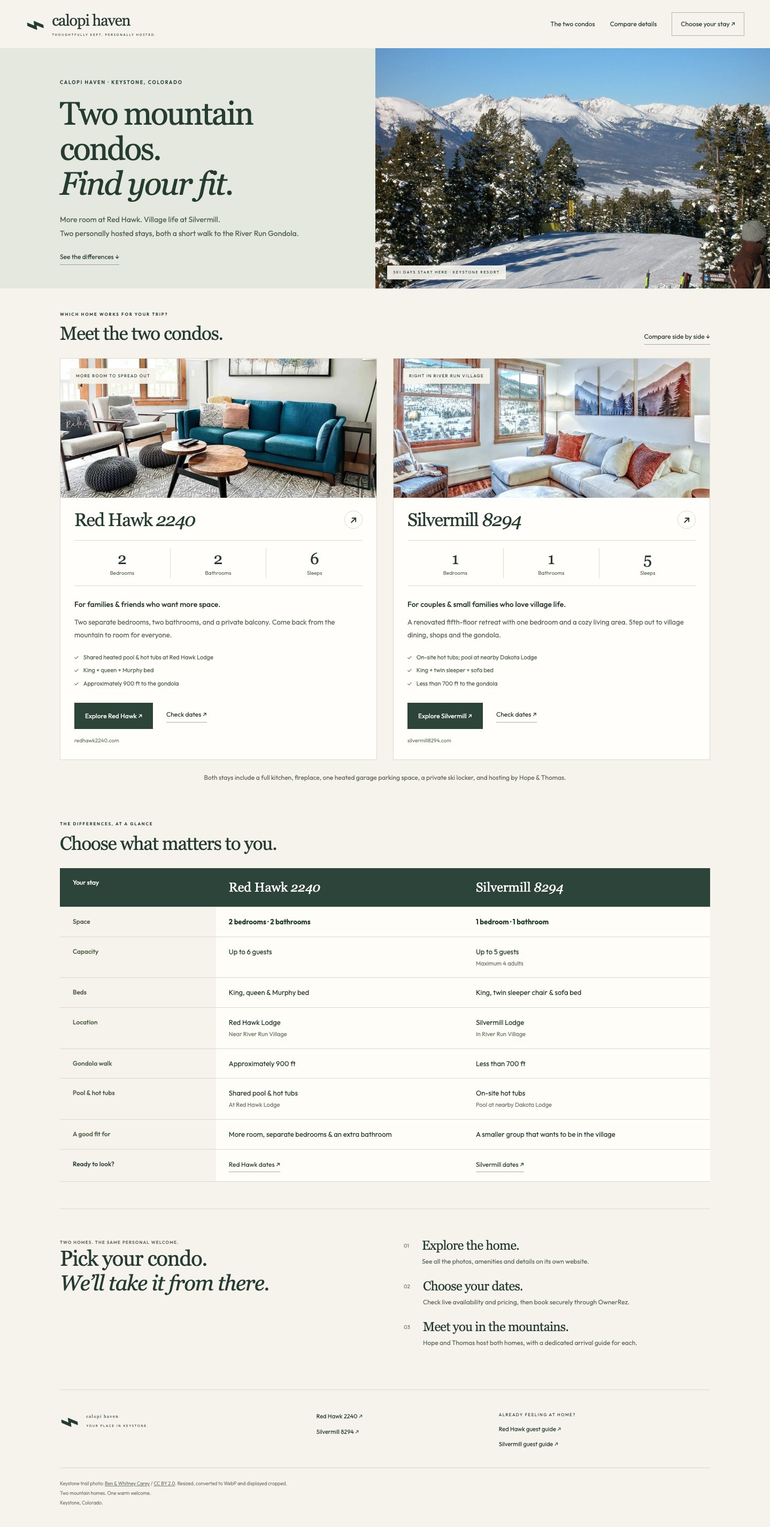
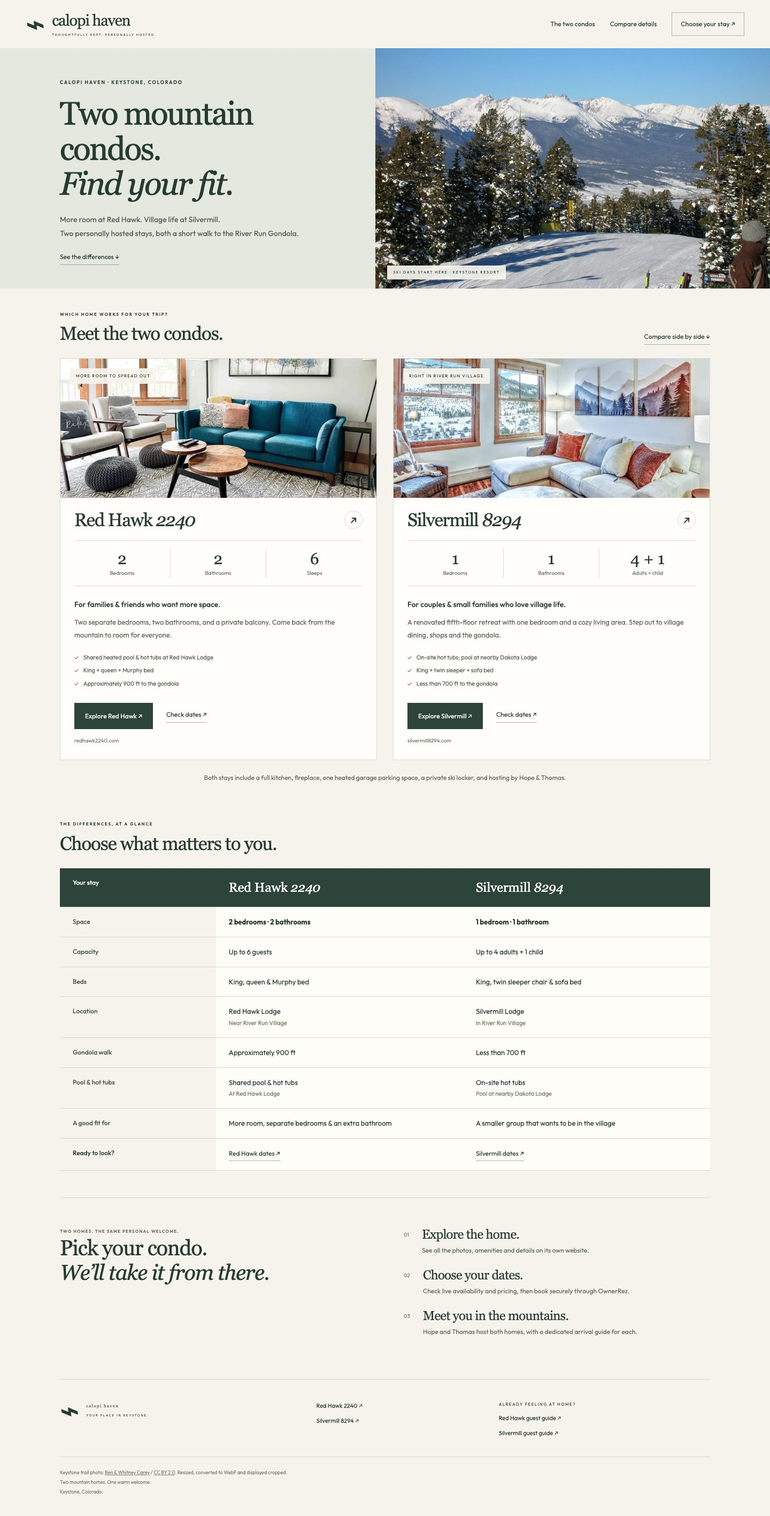
Clarify Silvermill capacity as four adults and one child

diff --git a/silvermill.html b/silvermill.html
@@ -1,3 +1,3 @@
 <!DOCTYPE html>
 
-<html lang="en"><head><meta charset="utf-8"/><meta content="width=device-width, initial-scale=1" name="viewport"/><meta content="noindex,nofollow" name="robots"/><title>Silvermill 8294 | Your River Run Village retreat</title><meta content="Stay at Silvermill 8294 in Keystone: a renovated one-bedroom condo for five in River Run Village, with hot tubs and a short walk to the gondola. Book through OwnerRez." name="description"/><link href="assets/favicon.svg" rel="icon" type="image/svg+xml"/><link href="styles.css" rel="stylesheet"/></head><body class="alpine selected-site"><a class="skip-link" href="#main">Skip to content</a><header class="site-header"><a class="brand" data-preview-path="silvermill.html" href="https://silvermill8294.com/"><svg aria-hidden="true" viewbox="0 0 64 40"><path d="M2 36 23 5l12 18 8-12 19 25M15 17l8 5 5-7M36 21l7 4 5-6" fill="none" stroke="currentColor" stroke-width="2"></path></svg><span>SILVERMILL <b>8294</b><small>KEYSTONE, COLORADO</small></span></a><nav aria-label="Main navigation"><a href="#stay">The stay</a><a href="#explore">Explore</a><a href="#gallery">Photos</a><a class="nav-book" href="#book">Plan your stay <span>↗</span></a></nav></header><main id="main"><section class="alpine-hero"><img alt="Snow-covered River Run Village and Keystone mountains at dusk" class="hero-image" fetchpriority="high" loading="eager" src="assets/silvermill/81.webp"/><div class="hero-shade"></div><div class="alpine-hero-copy wrap"><p class="eyebrow">SILVERMILL LODGE · RIVER RUN VILLAGE</p><h1>A little closer<br/>to <em>everything.</em></h1><p>Village mornings. Mountain days.<br/>Your own place in the middle of it all.</p><a class="hero-link" href="#stay">Discover your stay <span>↓</span></a></div><span class="hero-coordinate">KEYSTONE, COLORADO   /   FOUR SEASONS, ONE GOOD PLACE</span></section><section class="alpine-book wrap" id="book"><p class="eyebrow">MAKE ROOM FOR A GETAWAY</p><form action="https://app.ownerrez.com/widgets/c10114d38806484bbd3c7bfd9bf4858e" class="booking-form" data-max-guests="5" method="get"><input name="view" type="hidden" value="form"/><input name="propertyKey" type="hidden" value="3f15f3b1b0f548328ab5276d7014358a"/><label>CHECK IN<input aria-label="Check-in date" name="or_arrival" required="" type="date"/></label><label>CHECK OUT<input aria-label="Check-out date" name="or_departure" required="" type="date"/></label><label>ADULTS<select aria-label="Adults" name="or_adults"><option value="1">1 adult</option><option selected="" value="2">2 adults</option><option value="3">3 adults</option><option value="4">4 adults</option></select></label><label>CHILDREN<select aria-label="Children" name="or_children"><option value="0">0 children</option><option value="1">1 child</option><option value="2">2 children</option><option value="3">3 children</option><option value="4">4 children</option></select></label><button class="button" type="submit">Check availability <span>↗</span></button><p class="date-error" role="alert"></p></form><p class="booking-handoff">Continue to OwnerRez for availability, pricing and secure booking.</p></section><div class="facts wrap"><span><b>5</b> guests</span><span><b>1</b> bedroom</span><span><b>1</b> bathroom</span><span><b>&lt;700 ft</b> to the gondola</span></div><section class="editorial wrap" id="stay"><div><p class="eyebrow">A SMALLER STAY. A LITTLE MORE EASE.</p><h2>Village life.<br/>Mountain views.<br/><em>All yours.</em></h2><p>A renovated fifth-floor retreat for couples, small families and a few favorite friends. Slow mornings in a king bed. Coffee by the window. Evenings around the fireplace after a day on the mountain.</p><a class="underlink" href="#gallery">Step inside ↗</a></div><figure><button aria-label="Enlarge: Silvermill living room with a sectional sofa and village views" class="photo" data-caption="Silvermill living room with a sectional sofa and village views" data-photo="assets/silvermill/08.webp"><img alt="Silvermill living room with a sectional sofa and village views" loading="lazy" src="assets/silvermill/08.webp"/></button><figcaption>Room to settle in. Every reason to step outside.</figcaption></figure></section><section class="amenity-story" id="explore"><div class="amenity-photo"><img alt="Outdoor hot tubs in the Silvermill courtyard" loading="lazy" src="assets/silvermill/49.webp"/></div><div><p class="eyebrow">THE VILLAGE AT YOUR DOORSTEP</p><h2>First chair.<br/>Last soak.</h2><p>Walk through River Run Village to the gondola in under three minutes. Come home to a soak in the shared courtyard hot tubs, or find your next favorite spot for dinner just outside.</p><ul class="amenity-list"><li>On-site shared hot tubs &amp; sauna</li><li>Year-round heated pool at nearby Dakota Lodge</li><li>One heated underground parking space</li><li>Private ski locker, fitness center &amp; billiards lounge</li></ul></div></section><section class="gallery-section wrap" id="gallery"><div class="section-top"><div><p class="eyebrow">A CLOSER LOOK</p><h2>Picture yourself here.</h2></div><p>Your River Run retreat.<br/>A few very good places to unwind.</p></div><div class="gallery-grid"><button aria-label="Enlarge: Living room with fireplace and mountain-inspired artwork" class="photo" data-caption="Living room with fireplace and mountain-inspired artwork" data-photo="assets/silvermill/00.webp"><img alt="Living room with fireplace and mountain-inspired artwork" loading="lazy" src="assets/silvermill/00.webp"/></button><button aria-label="Enlarge: King bedroom with soft linens and an upholstered headboard" class="photo" data-caption="King bedroom with soft linens and an upholstered headboard" data-photo="assets/silvermill/21.webp"><img alt="King bedroom with soft linens and an upholstered headboard" loading="lazy" src="assets/silvermill/21.webp"/></button><button aria-label="Enlarge: Full kitchen with breakfast bar seating" class="photo" data-caption="Full kitchen with breakfast bar seating" data-photo="assets/silvermill/10.webp"><img alt="Full kitchen with breakfast bar seating" loading="lazy" src="assets/silvermill/10.webp"/></button><button aria-label="Enlarge: Bedroom workspace overlooking River Run Village" class="photo" data-caption="Bedroom workspace overlooking River Run Village" data-photo="assets/silvermill/25.webp"><img alt="Bedroom workspace overlooking River Run Village" loading="lazy" src="assets/silvermill/25.webp"/></button><button aria-label="Enlarge: Bathroom with shower and bathtub" class="photo" data-caption="Bathroom with shower and bathtub" data-photo="assets/silvermill/28.webp"><img alt="Bathroom with shower and bathtub" loading="lazy" src="assets/silvermill/28.webp"/></button><button aria-label="Enlarge: Shared billiards lounge at Silvermill Lodge" class="photo" data-caption="Shared billiards lounge at Silvermill Lodge" data-photo="assets/silvermill/53.webp"><img alt="Shared billiards lounge at Silvermill Lodge" loading="lazy" src="assets/silvermill/53.webp"/></button></div><p class="gallery-note">Select a photo to take a closer look.</p></section><section class="faq wrap"><div><p class="eyebrow">BEFORE YOU PACK</p><h2>A few good<br/>things to know.</h2></div><div><details><summary>How close is the gondola?</summary><p>The condo is in River Run Village, less than 700 feet from the River Run Gondola. Walk through the village to reach the lift, dining and shops.</p></details><details><summary>Where will everyone sleep?</summary><p>The one-bedroom condo sleeps up to five, with a king bed, a twin sleeper chair in the bedroom and a pull-out sofa in the living room. There is one full bathroom.</p></details><details><summary>Is parking included?</summary><p>One heated underground garage parking space and a private ski locker are included. An elevator serves the building. Additional vehicles need separate parking arrangements.</p></details><details><summary>Where are the pool and hot tubs?</summary><p>The shared hot tubs are on site at Silvermill. The year-round heated pool is accessed at nearby Dakota Lodge. All shared amenities are subject to building access and maintenance.</p></details><details><summary>What are the check-in and check-out times?</summary><p>Check-in is after 4 PM and check-out is before 10 AM. Already booked? Use the guest guide linked below for arrival instructions.</p></details><details><summary>Where can I see the rental policies?</summary><p>OwnerRez shows the applicable pricing and booking terms for your selected stay. Review the rental agreement and cancellation policy before completing your reservation.</p></details></div></section><section class="closing wrap"><p class="eyebrow">MAKE IT A MOUNTAIN KIND OF WEEKEND</p><h2>Your next deep breath<br/>starts <em>here.</em></h2><a class="button" href="#book">Plan your stay ↗</a></section></main><footer class="site-footer wrap"><a class="brand" data-preview-path="silvermill.html" href="https://silvermill8294.com/"><svg aria-hidden="true" viewbox="0 0 64 40"><path d="M2 36 23 5l12 18 8-12 19 25M15 17l8 5 5-7M36 21l7 4 5-6" fill="none" stroke="currentColor" stroke-width="2"></path></svg><span>SILVERMILL <b>8294</b><small>YOUR PLACE IN KEYSTONE</small></span></a><div><a href="https://www.airbnb.com/rooms/1237080165740047360" rel="noopener" target="_blank">View Airbnb listing ↗</a><a href="http://checkin.silvermill8294.com/" rel="noopener" target="_blank">Already booked? Guest guide ↗</a><a data-preview-path="redhawk.html" href="https://redhawk2240.com/">Our other Keystone stay: Red Hawk 2240 ↗</a><a data-preview-path="index.html" href="https://calopihaven.com/">Calopi Haven · All our stays ↗</a></div><p>Silvermill Lodge · River Run · Keystone, Colorado</p></footer><dialog class="lightbox"><button aria-label="Close photo" class="dialog-close">×</button><img alt=""/><p></p><div class="lightbox-controls"><button aria-label="Previous photo" data-direction="-1">← Previous</button><button aria-label="Next photo" data-direction="1">Next →</button></div></dialog><script src="site.js"></script></body></html>
+<html lang="en"><head><meta charset="utf-8"/><meta content="width=device-width, initial-scale=1" name="viewport"/><meta content="noindex,nofollow" name="robots"/><title>Silvermill 8294 | Your River Run Village retreat</title><meta content="Stay at Silvermill 8294 in Keystone: a renovated one-bedroom condo for up to 4 adults and 1 child in River Run Village, with hot tubs and a short walk to the gondola. Book through OwnerRez." name="description"/><link href="assets/favicon.svg" rel="icon" type="image/svg+xml"/><link href="styles.css" rel="stylesheet"/></head><body class="alpine selected-site"><a class="skip-link" href="#main">Skip to content</a><header class="site-header"><a class="brand" data-preview-path="silvermill.html" href="https://silvermill8294.com/"><svg aria-hidden="true" viewbox="0 0 64 40"><path d="M2 36 23 5l12 18 8-12 19 25M15 17l8 5 5-7M36 21l7 4 5-6" fill="none" stroke="currentColor" stroke-width="2"></path></svg><span>SILVERMILL <b>8294</b><small>KEYSTONE, COLORADO</small></span></a><nav aria-label="Main navigation"><a href="#stay">The stay</a><a href="#explore">Explore</a><a href="#gallery">Photos</a><a class="nav-book" href="#book">Plan your stay <span>↗</span></a></nav></header><main id="main"><section class="alpine-hero"><img alt="Snow-covered River Run Village and Keystone mountains at dusk" class="hero-image" fetchpriority="high" loading="eager" src="assets/silvermill/81.webp"/><div class="hero-shade"></div><div class="alpine-hero-copy wrap"><p class="eyebrow">SILVERMILL LODGE · RIVER RUN VILLAGE</p><h1>A little closer<br/>to <em>everything.</em></h1><p>Village mornings. Mountain days.<br/>Your own place in the middle of it all.</p><a class="hero-link" href="#stay">Discover your stay <span>↓</span></a></div><span class="hero-coordinate">KEYSTONE, COLORADO   /   FOUR SEASONS, ONE GOOD PLACE</span></section><section class="alpine-book wrap" id="book"><p class="eyebrow">MAKE ROOM FOR A GETAWAY</p><form action="https://app.ownerrez.com/widgets/c10114d38806484bbd3c7bfd9bf4858e" class="booking-form" data-max-adults="4" data-max-children="1" data-max-guests="5" method="get"><input name="view" type="hidden" value="form"/><input name="propertyKey" type="hidden" value="3f15f3b1b0f548328ab5276d7014358a"/><label>CHECK IN<input aria-label="Check-in date" name="or_arrival" required="" type="date"/></label><label>CHECK OUT<input aria-label="Check-out date" name="or_departure" required="" type="date"/></label><label>ADULTS<select aria-label="Adults" name="or_adults"><option value="1">1 adult</option><option selected="" value="2">2 adults</option><option value="3">3 adults</option><option value="4">4 adults</option></select></label><label>CHILDREN<select aria-label="Children" name="or_children"><option value="0">0 children</option><option value="1">1 child</option></select></label><button class="button" type="submit">Check availability <span>↗</span></button><p class="date-error" role="alert"></p></form><p class="booking-handoff">Continue to OwnerRez for availability, pricing and secure booking.</p></section><div class="facts wrap"><span><b>4 + 1</b> adults + child</span><span><b>1</b> bedroom</span><span><b>1</b> bathroom</span><span><b>&lt;700 ft</b> to the gondola</span></div><section class="editorial wrap" id="stay"><div><p class="eyebrow">A SMALLER STAY. A LITTLE MORE EASE.</p><h2>Village life.<br/>Mountain views.<br/><em>All yours.</em></h2><p>A renovated fifth-floor retreat for couples, small families and a few favorite friends. Slow mornings in a king bed. Coffee by the window. Evenings around the fireplace after a day on the mountain.</p><a class="underlink" href="#gallery">Step inside ↗</a></div><figure><button aria-label="Enlarge: Silvermill living room with a sectional sofa and village views" class="photo" data-caption="Silvermill living room with a sectional sofa and village views" data-photo="assets/silvermill/08.webp"><img alt="Silvermill living room with a sectional sofa and village views" loading="lazy" src="assets/silvermill/08.webp"/></button><figcaption>Room to settle in. Every reason to step outside.</figcaption></figure></section><section class="amenity-story" id="explore"><div class="amenity-photo"><img alt="Outdoor hot tubs in the Silvermill courtyard" loading="lazy" src="assets/silvermill/49.webp"/></div><div><p class="eyebrow">THE VILLAGE AT YOUR DOORSTEP</p><h2>First chair.<br/>Last soak.</h2><p>Walk through River Run Village to the gondola in under three minutes. Come home to a soak in the shared courtyard hot tubs, or find your next favorite spot for dinner just outside.</p><ul class="amenity-list"><li>On-site shared hot tubs &amp; sauna</li><li>Year-round heated pool at nearby Dakota Lodge</li><li>One heated underground parking space</li><li>Private ski locker, fitness center &amp; billiards lounge</li></ul></div></section><section class="gallery-section wrap" id="gallery"><div class="section-top"><div><p class="eyebrow">A CLOSER LOOK</p><h2>Picture yourself here.</h2></div><p>Your River Run retreat.<br/>A few very good places to unwind.</p></div><div class="gallery-grid"><button aria-label="Enlarge: Living room with fireplace and mountain-inspired artwork" class="photo" data-caption="Living room with fireplace and mountain-inspired artwork" data-photo="assets/silvermill/00.webp"><img alt="Living room with fireplace and mountain-inspired artwork" loading="lazy" src="assets/silvermill/00.webp"/></button><button aria-label="Enlarge: King bedroom with soft linens and an upholstered headboard" class="photo" data-caption="King bedroom with soft linens and an upholstered headboard" data-photo="assets/silvermill/21.webp"><img alt="King bedroom with soft linens and an upholstered headboard" loading="lazy" src="assets/silvermill/21.webp"/></button><button aria-label="Enlarge: Full kitchen with breakfast bar seating" class="photo" data-caption="Full kitchen with breakfast bar seating" data-photo="assets/silvermill/10.webp"><img alt="Full kitchen with breakfast bar seating" loading="lazy" src="assets/silvermill/10.webp"/></button><button aria-label="Enlarge: Bedroom workspace overlooking River Run Village" class="photo" data-caption="Bedroom workspace overlooking River Run Village" data-photo="assets/silvermill/25.webp"><img alt="Bedroom workspace overlooking River Run Village" loading="lazy" src="assets/silvermill/25.webp"/></button><button aria-label="Enlarge: Bathroom with shower and bathtub" class="photo" data-caption="Bathroom with shower and bathtub" data-photo="assets/silvermill/28.webp"><img alt="Bathroom with shower and bathtub" loading="lazy" src="assets/silvermill/28.webp"/></button><button aria-label="Enlarge: Shared billiards lounge at Silvermill Lodge" class="photo" data-caption="Shared billiards lounge at Silvermill Lodge" data-photo="assets/silvermill/53.webp"><img alt="Shared billiards lounge at Silvermill Lodge" loading="lazy" src="assets/silvermill/53.webp"/></button></div><p class="gallery-note">Select a photo to take a closer look.</p></section><section class="faq wrap"><div><p class="eyebrow">BEFORE YOU PACK</p><h2>A few good<br/>things to know.</h2></div><div><details><summary>How close is the gondola?</summary><p>The condo is in River Run Village, less than 700 feet from the River Run Gondola. Walk through the village to reach the lift, dining and shops.</p></details><details><summary>Where will everyone sleep?</summary><p>The one-bedroom condo sleeps up to 4 adults and 1 child, with a king bed, a twin sleeper chair in the bedroom and a pull-out sofa in the living room. There is one full bathroom.</p></details><details><summary>Is parking included?</summary><p>One heated underground garage parking space and a private ski locker are included. An elevator serves the building. Additional vehicles need separate parking arrangements.</p></details><details><summary>Where are the pool and hot tubs?</summary><p>The shared hot tubs are on site at Silvermill. The year-round heated pool is accessed at nearby Dakota Lodge. All shared amenities are subject to building access and maintenance.</p></details><details><summary>What are the check-in and check-out times?</summary><p>Check-in is after 4 PM and check-out is before 10 AM. Already booked? Use the guest guide linked below for arrival instructions.</p></details><details><summary>Where can I see the rental policies?</summary><p>OwnerRez shows the applicable pricing and booking terms for your selected stay. Review the rental agreement and cancellation policy before completing your reservation.</p></details></div></section><section class="closing wrap"><p class="eyebrow">MAKE IT A MOUNTAIN KIND OF WEEKEND</p><h2>Your next deep breath<br/>starts <em>here.</em></h2><a class="button" href="#book">Plan your stay ↗</a></section></main><footer class="site-footer wrap"><a class="brand" data-preview-path="silvermill.html" href="https://silvermill8294.com/"><svg aria-hidden="true" viewbox="0 0 64 40"><path d="M2 36 23 5l12 18 8-12 19 25M15 17l8 5 5-7M36 21l7 4 5-6" fill="none" stroke="currentColor" stroke-width="2"></path></svg><span>SILVERMILL <b>8294</b><small>YOUR PLACE IN KEYSTONE</small></span></a><div><a href="https://www.airbnb.com/rooms/1237080165740047360" rel="noopener" target="_blank">View Airbnb listing ↗</a><a href="http://checkin.silvermill8294.com/" rel="noopener" target="_blank">Already booked? Guest guide ↗</a><a data-preview-path="redhawk.html" href="https://redhawk2240.com/">Our other Keystone stay: Red Hawk 2240 ↗</a><a data-preview-path="index.html" href="https://calopihaven.com/">Calopi Haven · All our stays ↗</a></div><p>Silvermill Lodge · River Run · Keystone, Colorado</p></footer><dialog class="lightbox"><button aria-label="Close photo" class="dialog-close">×</button><img alt=""/><p></p><div class="lightbox-controls"><button aria-label="Previous photo" data-direction="-1">← Previous</button><button aria-label="Next photo" data-direction="1">Next →</button></div></dialog><script src="site.js"></script></body></html>

diff --git a/index.html b/index.html
@@ -1,9 +1,9 @@
-<!doctype html><html lang="en"><head><meta charset="utf-8"><meta name="viewport" content="width=device-width,initial-scale=1"><meta name="robots" content="noindex,nofollow"><title>Calopi Haven | Compare two Keystone vacation condos</title><meta name="description" content="Choose between Red Hawk 2240, a two-bedroom condo for six, and Silvermill 8294, a one-bedroom condo for five in Keystone’s River Run Village. Compare and book directly."><link rel="icon" href="assets/favicon.svg"><link rel="stylesheet" href="styles.css"><link rel="stylesheet" href="calopi.css"></head><body class="alpine haven"><a class="skip-link" href="#main">Skip to content</a><header class="haven-header"><a aria-label="Calopi Haven home" class="haven-brand" data-preview-path="index.html" href="https://calopihaven.com/"><span aria-hidden="true" class="haven-symbol">⌁</span><span>calopi haven<small>THOUGHTFULLY KEPT. PERSONALLY HOSTED.</small></span></a><nav aria-label="Main navigation"><a href="#stays">The two condos</a><a href="#compare">Compare details</a><a class="haven-outline" href="#stays">Choose your stay ↗</a></nav></header><main id="main"><section class="choice-hero"><div class="choice-hero-copy"><p class="eyebrow">CALOPI HAVEN · KEYSTONE, COLORADO</p><h1>Two mountain condos.<br><em>Find your fit.</em></h1><p>More room at Red Hawk. Village life at Silvermill.<br>Two personally hosted stays, both a short walk to the River Run Gondola.</p><a class="haven-text-link" href="#compare">See the differences ↓</a></div><figure><img src="assets/keystone-schoolmarm.webp" alt="A skier beside the Schoolmarm trail at Keystone Resort, overlooking the snowy Tenmile Range" width="2048" height="1532" fetchpriority="high"><figcaption>SKI DAYS START HERE · KEYSTONE RESORT</figcaption></figure></section>
-<div class="quick-choices haven-wrap" aria-label="Choose between our two properties"><a href="#redhawk"><span>RED HAWK 2240</span><strong>2 bedrooms · 2 baths · sleeps 6</strong><small>More space for families &amp; friends ↓</small></a><a href="#silvermill"><span>SILVERMILL 8294</span><strong>1 bedroom · 1 bath · sleeps 5</strong><small>A cozy base in River Run Village ↓</small></a></div>
-<section id="stays" class="haven-stays haven-wrap"><div class="haven-section-top"><div><p class="eyebrow">WHICH HOME WORKS FOR YOUR TRIP?</p><h2>Meet the two condos.</h2></div><a class="haven-text-link" href="#compare">Compare side by side ↓</a></div><div class="haven-properties"><article id="redhawk" class="haven-property"><a class="haven-property-photo" href="https://redhawk2240.com/" data-preview-path="redhawk.html"><img src="assets/photo-01.webp" alt="Red Hawk living room with teal sofa and separate dining area" width="1440" height="1080"><span>MORE ROOM TO SPREAD OUT</span></a><div class="property-content"><div class="haven-property-heading"><h3>Red Hawk <em>2240</em></h3><a href="https://redhawk2240.com/" data-preview-path="redhawk.html" aria-label="Explore Red Hawk 2240">↗</a></div><dl class="property-numbers"><div><dt>Bedrooms</dt><dd>2</dd></div><div><dt>Bathrooms</dt><dd>2</dd></div><div><dt>Sleeps</dt><dd>6</dd></div></dl><p class="best-for">For families &amp; friends who want more space.</p><p class="property-intro">Two separate bedrooms, two bathrooms, and a private balcony. Come back from the mountain to room for everyone.</p><ul><li>Shared heated pool &amp; hot tubs at Red Hawk Lodge</li><li>King + queen + Murphy bed</li><li>Approximately 900 ft to the gondola</li></ul><div class="haven-property-actions"><a class="haven-dark-button" href="https://redhawk2240.com/" data-preview-path="redhawk.html">Explore Red Hawk ↗</a><a class="haven-text-link" href="https://redhawk2240.com/#book" data-preview-path="redhawk.html#book">Check dates ↗</a></div><a class="haven-domain" href="https://redhawk2240.com/" data-preview-path="redhawk.html">redhawk2240.com</a></div></article><article id="silvermill" class="haven-property"><a class="haven-property-photo" href="https://silvermill8294.com/" data-preview-path="silvermill.html"><img src="assets/silvermill/08.webp" alt="Silvermill living room with bright windows overlooking River Run Village" width="1440" height="1080"><span>RIGHT IN RIVER RUN VILLAGE</span></a><div class="property-content"><div class="haven-property-heading"><h3>Silvermill <em>8294</em></h3><a href="https://silvermill8294.com/" data-preview-path="silvermill.html" aria-label="Explore Silvermill 8294">↗</a></div><dl class="property-numbers"><div><dt>Bedrooms</dt><dd>1</dd></div><div><dt>Bathrooms</dt><dd>1</dd></div><div><dt>Sleeps</dt><dd>5</dd></div></dl><p class="best-for">For couples &amp; small families who love village life.</p><p class="property-intro">A renovated fifth-floor retreat with one bedroom and a cozy living area. Step out to village dining, shops and the gondola.</p><ul><li>On-site hot tubs; pool at nearby Dakota Lodge</li><li>King + twin sleeper + sofa bed</li><li>Less than 700 ft to the gondola</li></ul><div class="haven-property-actions"><a class="haven-dark-button" href="https://silvermill8294.com/" data-preview-path="silvermill.html">Explore Silvermill ↗</a><a class="haven-text-link" href="https://silvermill8294.com/#book" data-preview-path="silvermill.html#book">Check dates ↗</a></div><a class="haven-domain" href="https://silvermill8294.com/" data-preview-path="silvermill.html">silvermill8294.com</a></div></article></div><p class="haven-booking-note">Both stays include a full kitchen, fireplace, one heated garage parking space, a private ski locker, and hosting by Hope &amp; Thomas.</p></section>
+<!doctype html><html lang="en"><head><meta charset="utf-8"><meta name="viewport" content="width=device-width,initial-scale=1"><meta name="robots" content="noindex,nofollow"><title>Calopi Haven | Compare two Keystone vacation condos</title><meta name="description" content="Choose between Red Hawk 2240, a two-bedroom condo for six, and Silvermill 8294, a one-bedroom condo for up to 4 adults and 1 child in Keystone’s River Run Village. Compare and book directly."><link rel="icon" href="assets/favicon.svg"><link rel="stylesheet" href="styles.css"><link rel="stylesheet" href="calopi.css"></head><body class="alpine haven"><a class="skip-link" href="#main">Skip to content</a><header class="haven-header"><a aria-label="Calopi Haven home" class="haven-brand" data-preview-path="index.html" href="https://calopihaven.com/"><span aria-hidden="true" class="haven-symbol">⌁</span><span>calopi haven<small>THOUGHTFULLY KEPT. PERSONALLY HOSTED.</small></span></a><nav aria-label="Main navigation"><a href="#stays">The two condos</a><a href="#compare">Compare details</a><a class="haven-outline" href="#stays">Choose your stay ↗</a></nav></header><main id="main"><section class="choice-hero"><div class="choice-hero-copy"><p class="eyebrow">CALOPI HAVEN · KEYSTONE, COLORADO</p><h1>Two mountain condos.<br><em>Find your fit.</em></h1><p>More room at Red Hawk. Village life at Silvermill.<br>Two personally hosted stays, both a short walk to the River Run Gondola.</p><a class="haven-text-link" href="#compare">See the differences ↓</a></div><figure><img src="assets/keystone-schoolmarm.webp" alt="A skier beside the Schoolmarm trail at Keystone Resort, overlooking the snowy Tenmile Range" width="2048" height="1532" fetchpriority="high"><figcaption>SKI DAYS START HERE · KEYSTONE RESORT</figcaption></figure></section>
+<div class="quick-choices haven-wrap" aria-label="Choose between our two properties"><a href="#redhawk"><span>RED HAWK 2240</span><strong>2 bedrooms · 2 baths · sleeps 6</strong><small>More space for families &amp; friends ↓</small></a><a href="#silvermill"><span>SILVERMILL 8294</span><strong>1 bedroom · 1 bath · 4 adults + 1 child</strong><small>A cozy base in River Run Village ↓</small></a></div>
+<section id="stays" class="haven-stays haven-wrap"><div class="haven-section-top"><div><p class="eyebrow">WHICH HOME WORKS FOR YOUR TRIP?</p><h2>Meet the two condos.</h2></div><a class="haven-text-link" href="#compare">Compare side by side ↓</a></div><div class="haven-properties"><article id="redhawk" class="haven-property"><a class="haven-property-photo" href="https://redhawk2240.com/" data-preview-path="redhawk.html"><img src="assets/photo-01.webp" alt="Red Hawk living room with teal sofa and separate dining area" width="1440" height="1080"><span>MORE ROOM TO SPREAD OUT</span></a><div class="property-content"><div class="haven-property-heading"><h3>Red Hawk <em>2240</em></h3><a href="https://redhawk2240.com/" data-preview-path="redhawk.html" aria-label="Explore Red Hawk 2240">↗</a></div><dl class="property-numbers"><div><dt>Bedrooms</dt><dd>2</dd></div><div><dt>Bathrooms</dt><dd>2</dd></div><div><dt>Sleeps</dt><dd>6</dd></div></dl><p class="best-for">For families &amp; friends who want more space.</p><p class="property-intro">Two separate bedrooms, two bathrooms, and a private balcony. Come back from the mountain to room for everyone.</p><ul><li>Shared heated pool &amp; hot tubs at Red Hawk Lodge</li><li>King + queen + Murphy bed</li><li>Approximately 900 ft to the gondola</li></ul><div class="haven-property-actions"><a class="haven-dark-button" href="https://redhawk2240.com/" data-preview-path="redhawk.html">Explore Red Hawk ↗</a><a class="haven-text-link" href="https://redhawk2240.com/#book" data-preview-path="redhawk.html#book">Check dates ↗</a></div><a class="haven-domain" href="https://redhawk2240.com/" data-preview-path="redhawk.html">redhawk2240.com</a></div></article><article id="silvermill" class="haven-property"><a class="haven-property-photo" href="https://silvermill8294.com/" data-preview-path="silvermill.html"><img src="assets/silvermill/08.webp" alt="Silvermill living room with bright windows overlooking River Run Village" width="1440" height="1080"><span>RIGHT IN RIVER RUN VILLAGE</span></a><div class="property-content"><div class="haven-property-heading"><h3>Silvermill <em>8294</em></h3><a href="https://silvermill8294.com/" data-preview-path="silvermill.html" aria-label="Explore Silvermill 8294">↗</a></div><dl class="property-numbers"><div><dt>Bedrooms</dt><dd>1</dd></div><div><dt>Bathrooms</dt><dd>1</dd></div><div><dt>Adults + child</dt><dd>4 + 1</dd></div></dl><p class="best-for">For couples &amp; small families who love village life.</p><p class="property-intro">A renovated fifth-floor retreat with one bedroom and a cozy living area. Step out to village dining, shops and the gondola.</p><ul><li>On-site hot tubs; pool at nearby Dakota Lodge</li><li>King + twin sleeper + sofa bed</li><li>Less than 700 ft to the gondola</li></ul><div class="haven-property-actions"><a class="haven-dark-button" href="https://silvermill8294.com/" data-preview-path="silvermill.html">Explore Silvermill ↗</a><a class="haven-text-link" href="https://silvermill8294.com/#book" data-preview-path="silvermill.html#book">Check dates ↗</a></div><a class="haven-domain" href="https://silvermill8294.com/" data-preview-path="silvermill.html">silvermill8294.com</a></div></article></div><p class="haven-booking-note">Both stays include a full kitchen, fireplace, one heated garage parking space, a private ski locker, and hosting by Hope &amp; Thomas.</p></section>
 <section class="comparison-section haven-wrap" id="compare"><div class="haven-section-top"><div><p class="eyebrow">THE DIFFERENCES, AT A GLANCE</p><h2>Choose what matters to you.</h2></div></div><div class="comparison-table-wrap"><table class="stay-comparison"><caption>Compare Red Hawk 2240 and Silvermill 8294</caption><thead><tr><th scope="col">Your stay</th><th scope="col">Red Hawk <span>2240</span></th><th scope="col">Silvermill <span>8294</span></th></tr></thead><tbody>
 <tr><th scope="row">Space</th><td><strong>2 bedrooms · 2 bathrooms</strong></td><td><strong>1 bedroom · 1 bathroom</strong></td></tr>
-<tr><th scope="row">Capacity</th><td>Up to 6 guests</td><td>Up to 5 guests<br><small>Maximum 4 adults</small></td></tr>
+<tr><th scope="row">Capacity</th><td>Up to 6 guests</td><td>Up to 4 adults + 1 child</td></tr>
 <tr><th scope="row">Beds</th><td>King, queen &amp; Murphy bed</td><td>King, twin sleeper chair &amp; sofa bed</td></tr>
 <tr><th scope="row">Location</th><td>Red Hawk Lodge<br><small>Near River Run Village</small></td><td>Silvermill Lodge<br><small>In River Run Village</small></td></tr>
 <tr><th scope="row">Gondola walk</th><td>Approximately 900 ft</td><td>Less than 700 ft</td></tr>

diff --git a/site.js b/site.js
@@ -11,7 +11,7 @@
     arrival.addEventListener('change',()=>{departure.min=nextDay(arrival.value||arrival.min);if(departure.value&&departure.value<departure.min)departure.value='';error.textContent=''});
     form.addEventListener('submit',event=>{
       error.textContent='';
-      if(form.dataset.maxGuests && Number(form.elements.or_adults.value)+Number(form.elements.or_children.value)>Number(form.dataset.maxGuests)){event.preventDefault();error.textContent='Silvermill accommodates up to five guests in total.';return;}
+      if(form.dataset.maxGuests && (Number(form.elements.or_adults.value)>Number(form.dataset.maxAdults)||Number(form.elements.or_children.value)>Number(form.dataset.maxChildren)||Number(form.elements.or_adults.value)+Number(form.elements.or_children.value)>Number(form.dataset.maxGuests))){event.preventDefault();error.textContent='Silvermill accommodates up to 4 adults and 1 child.';return;}
       if(!arrival.value||!departure.value||arrival.value<arrival.min||departure.value<=arrival.value){event.preventDefault();error.textContent='Choose a future check-in date and a later check-out date.';}
     });
   });

diff --git a/scripts/build_property_sites.py b/scripts/build_property_sites.py
@@ -26,22 +26,22 @@ s=selected()
 # Replace property names, public links and OwnerRez identifiers before setting property-specific content.
 s=BeautifulSoup(str(s).replace('RED HAWK','SILVERMILL').replace('Red Hawk','Silvermill').replace('2240','8294').replace('45842208','1237080165740047360').replace('checkin.redhawk8294.com','checkin.silvermill8294.com').replace('https://checkin.silvermill8294.com','http://checkin.silvermill8294.com/').replace('f13cd4d5594545a4b410a094355b8b4d','c10114d38806484bbd3c7bfd9bf4858e').replace('bc7244c04d284b70baab4dede8d52fb0','3f15f3b1b0f548328ab5276d7014358a'),'html.parser')
 s.title.string='Silvermill 8294 | Your River Run Village retreat'
-s.select_one('meta[name=description]')['content']='Stay at Silvermill 8294 in Keystone: a renovated one-bedroom condo for five in River Run Village, with hot tubs and a short walk to the gondola. Book through OwnerRez.'
+s.select_one('meta[name=description]')['content']='Stay at Silvermill 8294 in Keystone: a renovated one-bedroom condo for up to 4 adults and 1 child in River Run Village, with hot tubs and a short walk to the gondola. Book through OwnerRez.'
 for a in s.select('.brand'):a['href']='silvermill.html'
-form=s.select_one('.booking-form');form['data-max-guests']='5'
+form=s.select_one('.booking-form');form['data-max-guests']='5';form['data-max-adults']='4';form['data-max-children']='1'
 guest_label=s.select_one('select[name=or_guests]').parent
-guest_label.replace_with(BeautifulSoup('<label>ADULTS<select name="or_adults" aria-label="Adults">'+''.join(f'<option value="{i}" {"selected" if i==2 else ""}>{i} adult{"s" if i>1 else ""}</option>' for i in range(1,5))+'</select></label><label>CHILDREN<select name="or_children" aria-label="Children">'+''.join(f'<option value="{i}">{i} child{"ren" if i!=1 else ""}</option>' for i in range(5))+'</select></label>','html.parser'))
+guest_label.replace_with(BeautifulSoup('<label>ADULTS<select name="or_adults" aria-label="Adults">'+''.join(f'<option value="{i}" {"selected" if i==2 else ""}>{i} adult{"s" if i>1 else ""}</option>' for i in range(1,5))+'</select></label><label>CHILDREN<select name="or_children" aria-label="Children">'+''.join(f'<option value="{i}">{i} child{"ren" if i!=1 else ""}</option>' for i in range(2))+'</select></label>','html.parser'))
 replace(s,'.hero-image',image(81,'Snow-covered River Run Village and Keystone mountains at dusk',True))
 s.select_one('.alpine-hero .eyebrow').string='SILVERMILL LODGE · RIVER RUN VILLAGE'
 s.select_one('h1').clear();s.select_one('h1').append(BeautifulSoup('A little closer<br/>to <em>everything.</em>','html.parser'))
 s.select_one('.alpine-hero-copy > p:not(.eyebrow)').clear();s.select_one('.alpine-hero-copy > p:not(.eyebrow)').append(BeautifulSoup('Village mornings. Mountain days.<br/>Your own place in the middle of it all.','html.parser'))
-replace(s,'.facts','<div class="facts wrap"><span><b>5</b> guests</span><span><b>1</b> bedroom</span><span><b>1</b> bathroom</span><span><b>&lt;700 ft</b> to the gondola</span></div>')
+replace(s,'.facts','<div class="facts wrap"><span><b>4 + 1</b> adults + child</span><span><b>1</b> bedroom</span><span><b>1</b> bathroom</span><span><b>&lt;700 ft</b> to the gondola</span></div>')
 replace(s,'.editorial',f'''<section class="editorial wrap" id="stay"><div><p class="eyebrow">A SMALLER STAY. A LITTLE MORE EASE.</p><h2>Village life.<br>Mountain views.<br><em>All yours.</em></h2><p>A renovated fifth-floor retreat for couples, small families and a few favorite friends. Slow mornings in a king bed. Coffee by the window. Evenings around the fireplace after a day on the mountain.</p><a class="underlink" href="#gallery">Step inside ↗</a></div><figure>{photo(8,'Silvermill living room with a sectional sofa and village views')}<figcaption>Room to settle in. Every reason to step outside.</figcaption></figure></section>''')
 replace(s,'.amenity-story',f'''<section class="amenity-story" id="explore"><div class="amenity-photo">{image(49,'Outdoor hot tubs in the Silvermill courtyard')}</div><div><p class="eyebrow">THE VILLAGE AT YOUR DOORSTEP</p><h2>First chair.<br>Last soak.</h2><p>Walk through River Run Village to the gondola in under three minutes. Come home to a soak in the shared courtyard hot tubs, or find your next favorite spot for dinner just outside.</p><ul class="amenity-list"><li>On-site shared hot tubs &amp; sauna</li><li>Year-round heated pool at nearby Dakota Lodge</li><li>One heated underground parking space</li><li>Private ski locker, fitness center &amp; billiards lounge</li></ul></div></section>''')
 items=[(0,'Living room with fireplace and mountain-inspired artwork'),(21,'King bedroom with soft linens and an upholstered headboard'),(10,'Full kitchen with breakfast bar seating'),(25,'Bedroom workspace overlooking River Run Village'),(28,'Bathroom with shower and bathtub'),(53,'Shared billiards lounge at Silvermill Lodge')]
 replace(s,'.gallery-grid','<div class="gallery-grid">'+''.join(photo(n,a) for n,a in items)+'</div>')
 s.select_one('.gallery-section .section-top > p').clear();s.select_one('.gallery-section .section-top > p').append(BeautifulSoup('Your River Run retreat.<br/>A few very good places to unwind.','html.parser'))
-faqs=[('How close is the gondola?','The condo is in River Run Village, less than 700 feet from the River Run Gondola. Walk through the village to reach the lift, dining and shops.'),('Where will everyone sleep?','The one-bedroom condo sleeps up to five, with a king bed, a twin sleeper chair in the bedroom and a pull-out sofa in the living room. There is one full bathroom.'),('Is parking included?','One heated underground garage parking space and a private ski locker are included. An elevator serves the building. Additional vehicles need separate parking arrangements.'),('Where are the pool and hot tubs?','The shared hot tubs are on site at Silvermill. The year-round heated pool is accessed at nearby Dakota Lodge. All shared amenities are subject to building access and maintenance.'),('What are the check-in and check-out times?','Check-in is after 4 PM and check-out is before 10 AM. Already booked? Use the guest guide linked below for arrival instructions.'),('Where can I see the rental policies?','OwnerRez shows the applicable pricing and booking terms for your selected stay. Review the rental agreement and cancellation policy before completing your reservation.')]
+faqs=[('How close is the gondola?','The condo is in River Run Village, less than 700 feet from the River Run Gondola. Walk through the village to reach the lift, dining and shops.'),('Where will everyone sleep?','The one-bedroom condo sleeps up to 4 adults and 1 child, with a king bed, a twin sleeper chair in the bedroom and a pull-out sofa in the living room. There is one full bathroom.'),('Is parking included?','One heated underground garage parking space and a private ski locker are included. An elevator serves the building. Additional vehicles need separate parking arrangements.'),('Where are the pool and hot tubs?','The shared hot tubs are on site at Silvermill. The year-round heated pool is accessed at nearby Dakota Lodge. All shared amenities are subject to building access and maintenance.'),('What are the check-in and check-out times?','Check-in is after 4 PM and check-out is before 10 AM. Already booked? Use the guest guide linked below for arrival instructions.'),('Where can I see the rental policies?','OwnerRez shows the applicable pricing and booking terms for your selected stay. Review the rental agreement and cancellation policy before completing your reservation.')]
 replace(s,'.faq > div:last-child','<div>'+''.join(f'<details><summary>{q}</summary><p>{a}</p></details>' for q,a in faqs)+'</div>')
 replace(s,'.site-footer > div','''<div><a href="https://www.airbnb.com/rooms/1237080165740047360" target="_blank" rel="noopener">View Airbnb listing ↗</a><a href="http://checkin.silvermill8294.com/" target="_blank" rel="noopener">Already booked? Guest guide ↗</a><a href="redhawk.html">Our other Keystone stay: Red Hawk 2240 ↗</a></div>''')
 s.select_one('.site-footer > p').string='Silvermill Lodge · River Run · Keystone, Colorado'

diff --git a/scripts/check_property_sites.py b/scripts/check_property_sites.py
@@ -16,7 +16,9 @@ async def main():
     await page.wait_for_function('Array.from(document.images).every(i=>!i.getAttribute("src")||(i.complete&&i.naturalWidth>0))')
     assert await page.evaluate('document.documentElement.scrollWidth<=innerWidth'),(name,width,'overflow')
     if name=='redhawk':assert await page.locator('[name=or_guests] option').count()==guests
-    else:assert await page.locator('[name=or_adults] option').count()==4
+    else:
+     assert await page.locator('[name=or_adults] option').count()==4
+     assert await page.locator('[name=or_children] option').evaluate_all('(options)=>options.map(o=>o.value)')==['0','1']
     assert await page.locator('.concept-bar').count()==0
     if name=='silvermill':
      assert await page.locator('img[src*="assets/photo-"]').count()==0

diff --git a/README.md b/README.md
@@ -20,8 +20,8 @@ URLs. Both property footers link back to Calopi Haven and to the other property.
 
 The original design comparison remains at `concepts.html`. Both selected sites
 use compact date/guest forms that pass selections to the correct OwnerRez hosted
-booking widget. Red Hawk accommodates six; Silvermill accommodates five (at most four adults).
-Silvermill passes separate adult and child counts to match its OwnerRez rules.
+booking widget. Red Hawk accommodates six; Silvermill accommodates up to four adults and one child.
+Silvermill passes separate adult and child counts, with a maximum of four adults and one child in its date selector.
 No API keys are stored. Availability, pricing, rental terms and checkout are
 handled by OwnerRez. No inquiry, reservation or payment was submitted in testing.
 
@@ -73,7 +73,7 @@ Silvermill: https://www.airbnb.com/rooms/1237080165740047360 and the welcome pag
 of the guide linked by http://checkin.silvermill8294.com/, inspected October 26,
 2026. Downloaded listing photos and source URLs are recorded in
 `docs/silvermill-photo-sources.json`. Silvermill is a fifth-floor, one-bedroom,
-one-bath condo for five with a king bed, twin sleeper chair and living-room sofa
+one-bath condo for up to four adults and one child with a king bed, twin sleeper chair and living-room sofa
 bed. The pool is at nearby Dakota Lodge; hot tubs are at Silvermill. No access
 codes, Wi-Fi credentials or private arrival instructions were copied.
 

diff --git a/AGENTS.md b/AGENTS.md
@@ -34,13 +34,13 @@ Do not treat it as one site with interchangeable booking widgets.
 | Property | Capacity / layout | OwnerRez widget ID | OwnerRez property key |
 | --- | --- | --- | --- |
 | Red Hawk 2240 | 6 guests; 2 bedrooms; 2 baths | `f13cd4d5594545a4b410a094355b8b4d` | `bc7244c04d284b70baab4dede8d52fb0` |
-| Silvermill 8294 | 5 guests total, maximum 4 adults; 1 bedroom; 1 bath | `c10114d38806484bbd3c7bfd9bf4858e` | `3f15f3b1b0f548328ab5276d7014358a` |
+| Silvermill 8294 | Up to 4 adults and 1 child; 1 bedroom; 1 bath | `c10114d38806484bbd3c7bfd9bf4858e` | `3f15f3b1b0f548328ab5276d7014358a` |
 
 - Keep the compact date/occupancy selector. The user rejected the full embedded
   OwnerRez contact form as too ugly. Submit GET to the correct hosted OwnerRez
   widget with `view=form`, `propertyKey`, `or_arrival`, and `or_departure`.
 - Red Hawk uses `or_guests`; Silvermill uses separate `or_adults` / `or_children`
-  and validates a combined maximum of five. No OwnerRez API key is needed.
+  and limits occupancy to at most four adults and one child. No OwnerRez API key is needed.
 - The compact selector does not know booked dates or rates. OwnerRez confirms
   availability, quoting, rental terms and secure checkout after continuing.
 - Never swap property IDs or send test inquiries/reservations/payments while
